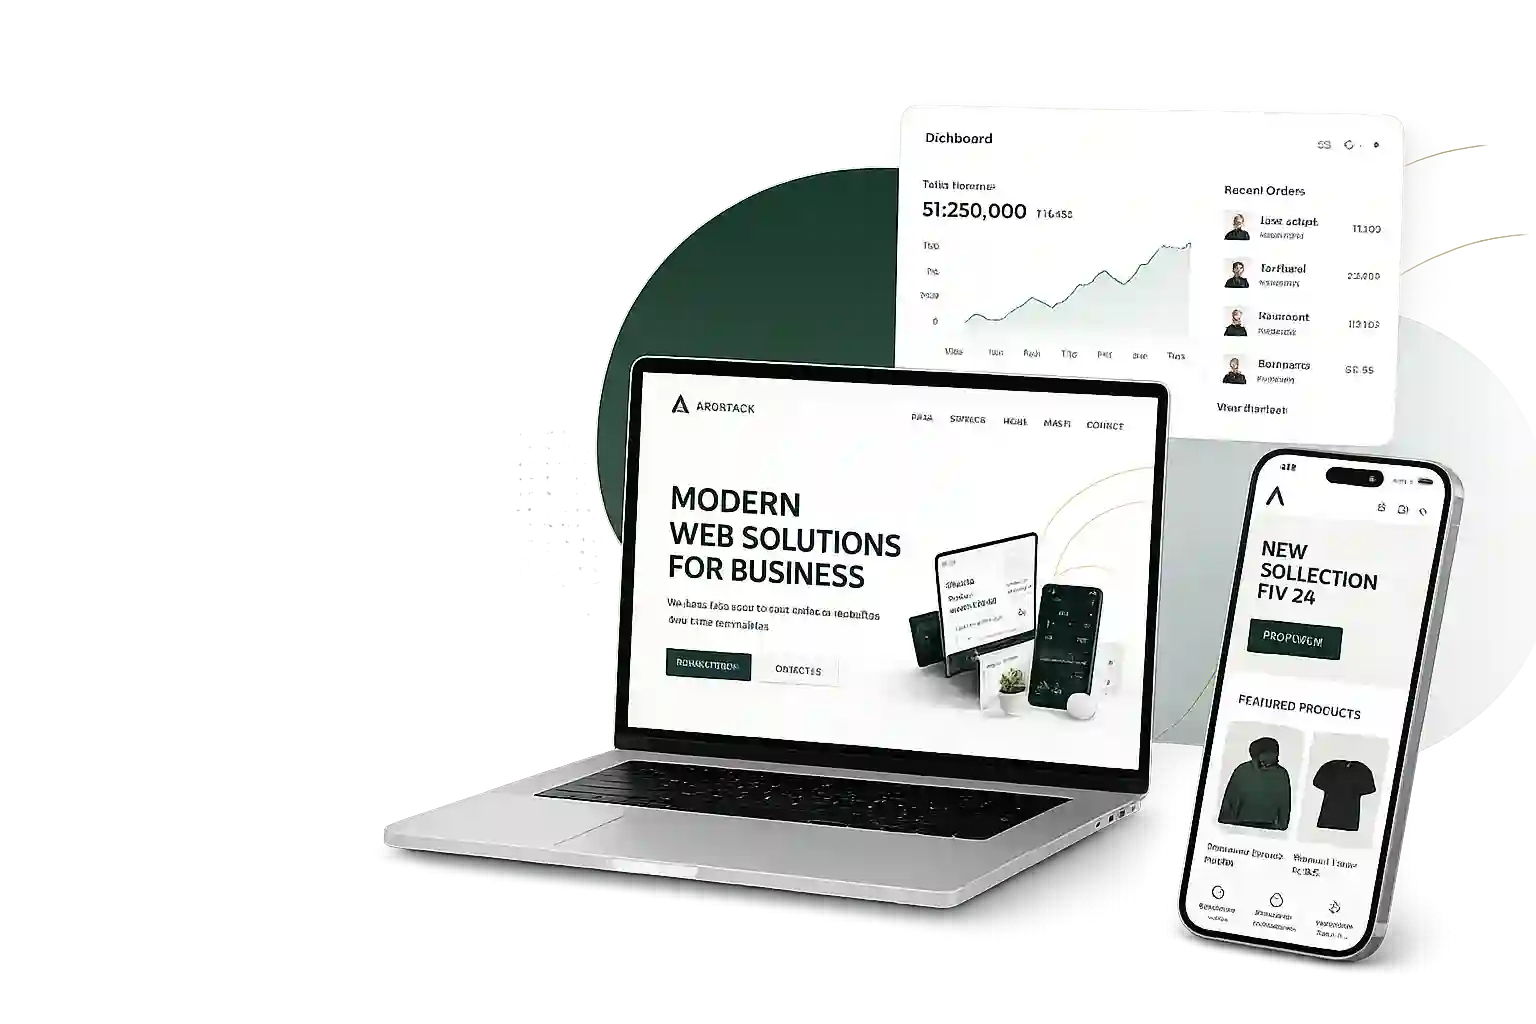
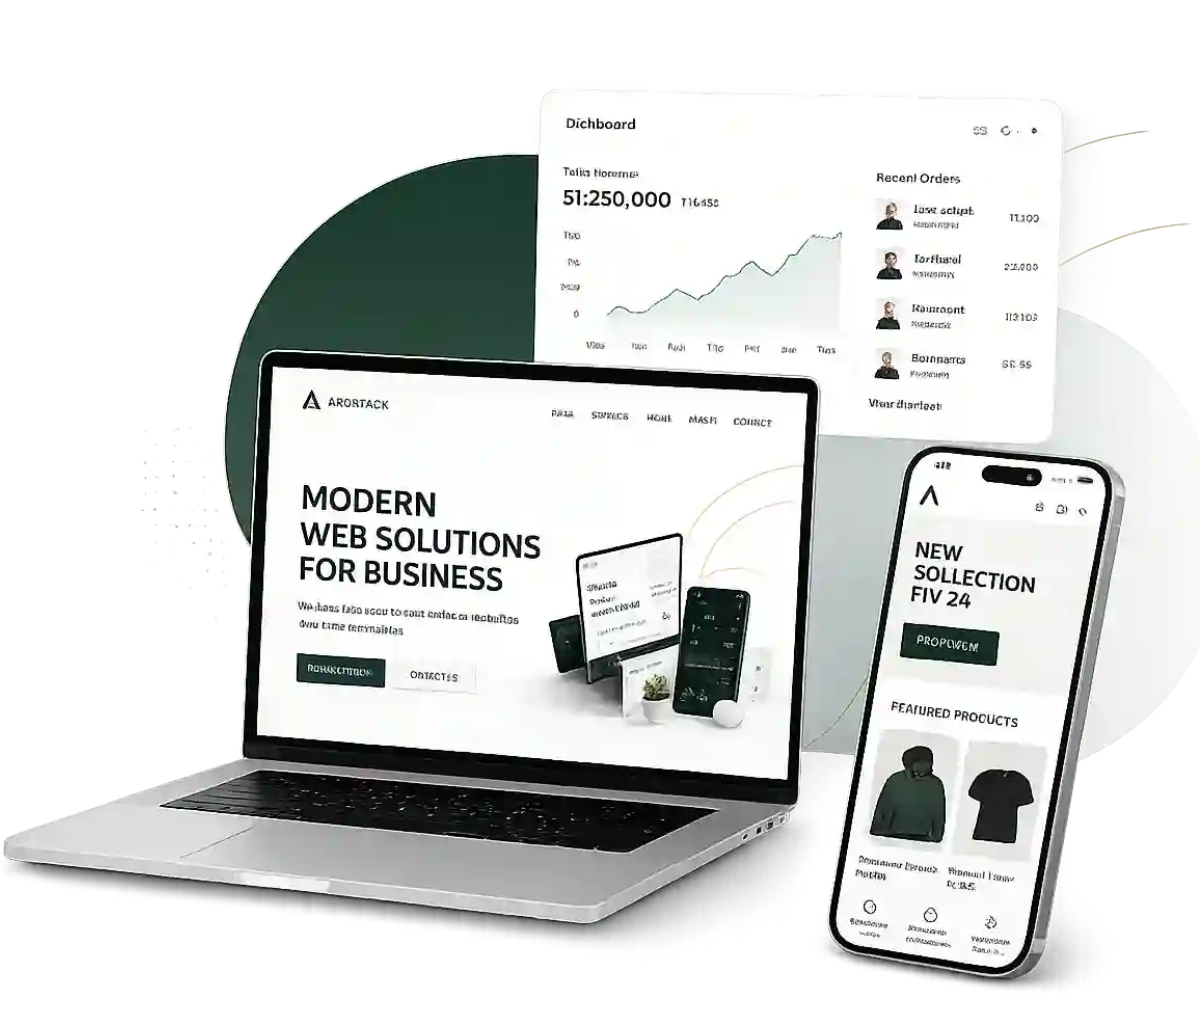
home page hero responsive except nav

diff --git a/src/components/home/Hero.jsx b/src/components/home/Hero.jsx
@@ -1,0 +1,162 @@
+import {
+  Avatar,
+  AvatarGroup,
+  Box,
+  Button,
+  Container,
+  Typography,
+} from "@mui/material";
+import React from "react";
+import Nav from "../general/Nav";
+import image from "../../assets/homepage_hero.webp";
+import { useTranslation } from "react-i18next";
+import { ArrowOutward } from "@mui/icons-material";
+
+const Hero = () => {
+  const { t } = useTranslation();
+  return (
+    <Box
+      sx={{
+        display: "flex",
+        flexDirection: "column",
+        alignItems: "center", justifyContent: "center",
+        height: "100%",
+        overflow: "hidden",
+        mt: {xs: 15, md: 0}
+      }}
+    >
+      <Box
+        sx={{
+          display: "flex",
+          alignItems: "center",
+          gap: 4,
+          flex: 1,
+          flexDirection: { xs: "column", md: "row" },
+        }}
+      >
+        <Box sx={{ flex: 1 }}>
+          <Box sx={{ pl: {xs: "36px", md: "64px"}, pr: { xs: "36px", md: 0 } }}>
+            <Box
+              sx={{
+                display: "flex",
+                justifyContent: "center",
+                alignItems: "center",
+                bgcolor: "grey.50",
+                border: "1px solid",
+                borderColor: "grey.300",
+                px: 2,
+                borderRadius: 5,
+                width: "fit-content",
+              }}
+            >
+              <Typography
+                variant="body1"
+                sx={{ fontWeight: 500, color: "secondary.main" }}
+              >
+                {t("hero.badge")}
+              </Typography>
+            </Box>
+            <Typography
+              variant="h1"
+              sx={{ mt: 3, fontSize: { xs: 48, md: 64, lg: 72 } }}
+            >
+              {t("hero.title.line1")}
+            </Typography>
+            <Typography
+              variant="h1"
+              sx={{
+                mt: 1,
+                color: "primary.main",
+                fontSize: { xs: 48, md: 64, lg: 72 },
+              }}
+            >
+              {t("hero.title.line2")}
+            </Typography>
+            <Typography
+              variant="h1"
+              sx={{
+                mt: 1,
+                fontSize: { xs: 48, md: 64, lg: 72 },
+                position: "relative",
+                "&::after": {
+                  content: '""',
+                  position: "absolute",
+                  bottom: -10,
+                  left: 0,
+                  height: "2px",
+                  width: 30,
+                  bgcolor: "secondary.main",
+                },
+              }}
+            >
+              {t("hero.title.line3")}
+            </Typography>
+            <Typography
+              variant="body1"
+              sx={{
+                fontWeight: 500,
+                color: "text.secondary",
+                fontSize: { xs: "16px", md: "14px", lg: "16px" },
+                mt: 5,
+                width: { xs: "100%", md: "80%", lg: "60%" },
+              }}
+            >
+              {t("hero.description")}
+            </Typography>
+            <Box
+              sx={{
+                mt: 3,
+                display: "flex",
+                alignItems: { xs: "flex-start", md: "center" },
+                gap: 2,
+                flexDirection: { xs: "column", md: "row" },
+              }}
+            >
+              <Button
+                variant="contained"
+                endIcon={<ArrowOutward />}
+                sx={{ fontWeight: 500, fontSize: { xs: 14, md: 10, lg: 14 } }}
+              >
+                {t("hero.primaryButton")}
+              </Button>
+              <Button
+                variant="outlined"
+                endIcon={<ArrowOutward />}
+                sx={{ fontWeight: 500, fontSize: { xs: 14, md: 10, lg: 14 } }}
+              >
+                {t("hero.secondaryButton")}
+              </Button>
+            </Box>
+            <Box sx={{ display: "flex", alignItems: {xs: "flex-start", md: "center"}, gap: 2, mt: 3, flexDirection: { xs: "column", md: "row" }, }}>
+              <Box>
+                <AvatarGroup total={24}>
+                  <Avatar alt="Remy Sharp" />
+                  <Avatar alt="Travis Howard" />
+                  <Avatar alt="Agnes Walker" />
+                  <Avatar alt="Trevor Henderson" />
+                </AvatarGroup>
+              </Box>
+              <Box>
+                <Typography
+                  variant="body1"
+                  sx={{ color: "text.secondary", fontWeight: 500 }}
+                >
+                  {t("hero.socialProof.count")} {t("hero.socialProof.text")}
+                </Typography>
+              </Box>
+            </Box>
+          </Box>
+        </Box>
+        <Box sx={{ flex: 1.5, pt: {xs: 0, md: 10} }}>
+          <Box
+            component={"img"}
+            src={image}
+            sx={{ width: "100%", height: "100%", objectFit: "contain" }}
+          />
+        </Box>
+      </Box>
+    </Box>
+  );
+};
+
+export default Hero;

diff --git a/src/components/general/Nav.jsx b/src/components/general/Nav.jsx
@@ -1,0 +1,45 @@
+import { ArrowOutward } from '@mui/icons-material'
+import { Box, Button, Container, Typography } from '@mui/material'
+import React from 'react'
+import { useTranslation } from 'react-i18next'
+import { useNavigate } from 'react-router-dom'
+import logo from "../../assets/logo_transparent.png"
+
+const Nav = () => {
+    const {t} = useTranslation();
+    const navigate = useNavigate();
+  return (
+    <Box sx={{position: "fixed", top: 0, left: 0, width: "100%"}}>
+        <Container maxWidth="xl" sx={{py: 3, display: "flex", justifyContent: "space-between", alignItems: "center"}}>
+            <Box component={"img"} src={logo} sx={{width: "150px"}}/>
+            <Box sx={{display: {xs: "none", md: "flex"}, alignItems: "center", gap: 8}}>
+                <Typography variant='body1' sx={{fontWeight: 600, cursor: "pointer"}}
+                component={"div"} onClick={() => navigate("/services")}>
+                    {t("navbar.menu.home")}
+                </Typography>
+                <Typography variant='body1' sx={{fontWeight: 600, cursor: "pointer"}}
+                component={"div"} onClick={() => navigate("/services")}>
+                    {t("navbar.menu.services")}
+                </Typography>
+                <Typography variant='body1' sx={{fontWeight: 600, cursor: "pointer"}}
+                component={"div"} onClick={() => navigate("/services")}>
+                    {t("navbar.menu.work")}
+                </Typography>
+                <Typography variant='body1' sx={{fontWeight: 600, cursor: "pointer"}}
+                component={"div"} onClick={() => navigate("/services")}>
+                    {t("navbar.menu.about")}
+                </Typography>
+                <Typography variant='body1' sx={{fontWeight: 600, cursor: "pointer"}}
+                component={"div"} onClick={() => navigate("/services")}>
+                    {t("navbar.menu.contact")}
+                </Typography>
+            </Box>
+            <Button variant='contained' endIcon={<ArrowOutward/>}>
+                LETS TALK
+            </Button>
+        </Container>
+    </Box>
+  )
+}
+
+export default Nav

diff --git a/src/pages/Home.jsx b/src/pages/Home.jsx
@@ -1,12 +1,17 @@
-import { Box } from '@mui/material'
-import React from 'react'
+import { Box } from "@mui/material";
+import React from "react";
+import Nav from "../components/general/Nav";
+import Hero from "../components/home/Hero";
 
 const Home = () => {
   return (
     <Box>
-        home
+      <Box sx={{ height: { xs: "fit-content", md: "100vh" } }}>
+        <Nav />
+        <Hero />
+      </Box>
     </Box>
-  )
-}
+  );
+};
 
-export default Home
+export default Home;

diff --git a/src/themes/theme.jsx b/src/themes/theme.jsx
@@ -96,13 +96,11 @@ const theme = createTheme({
     body1: {
       fontSize: "1rem",
       lineHeight: 1.8,
-      color: "#5F6368",
     },
 
     body2: {
       fontSize: "0.95rem",
       lineHeight: 1.7,
-      color: "#5F6368",
     },
 
     button: {
@@ -131,7 +129,7 @@ const theme = createTheme({
     MuiButton: {
       styleOverrides: {
         root: {
-          borderRadius: 14,
+          borderRadius: 8,
           padding: "12px 24px",
           boxShadow: "none",
         },